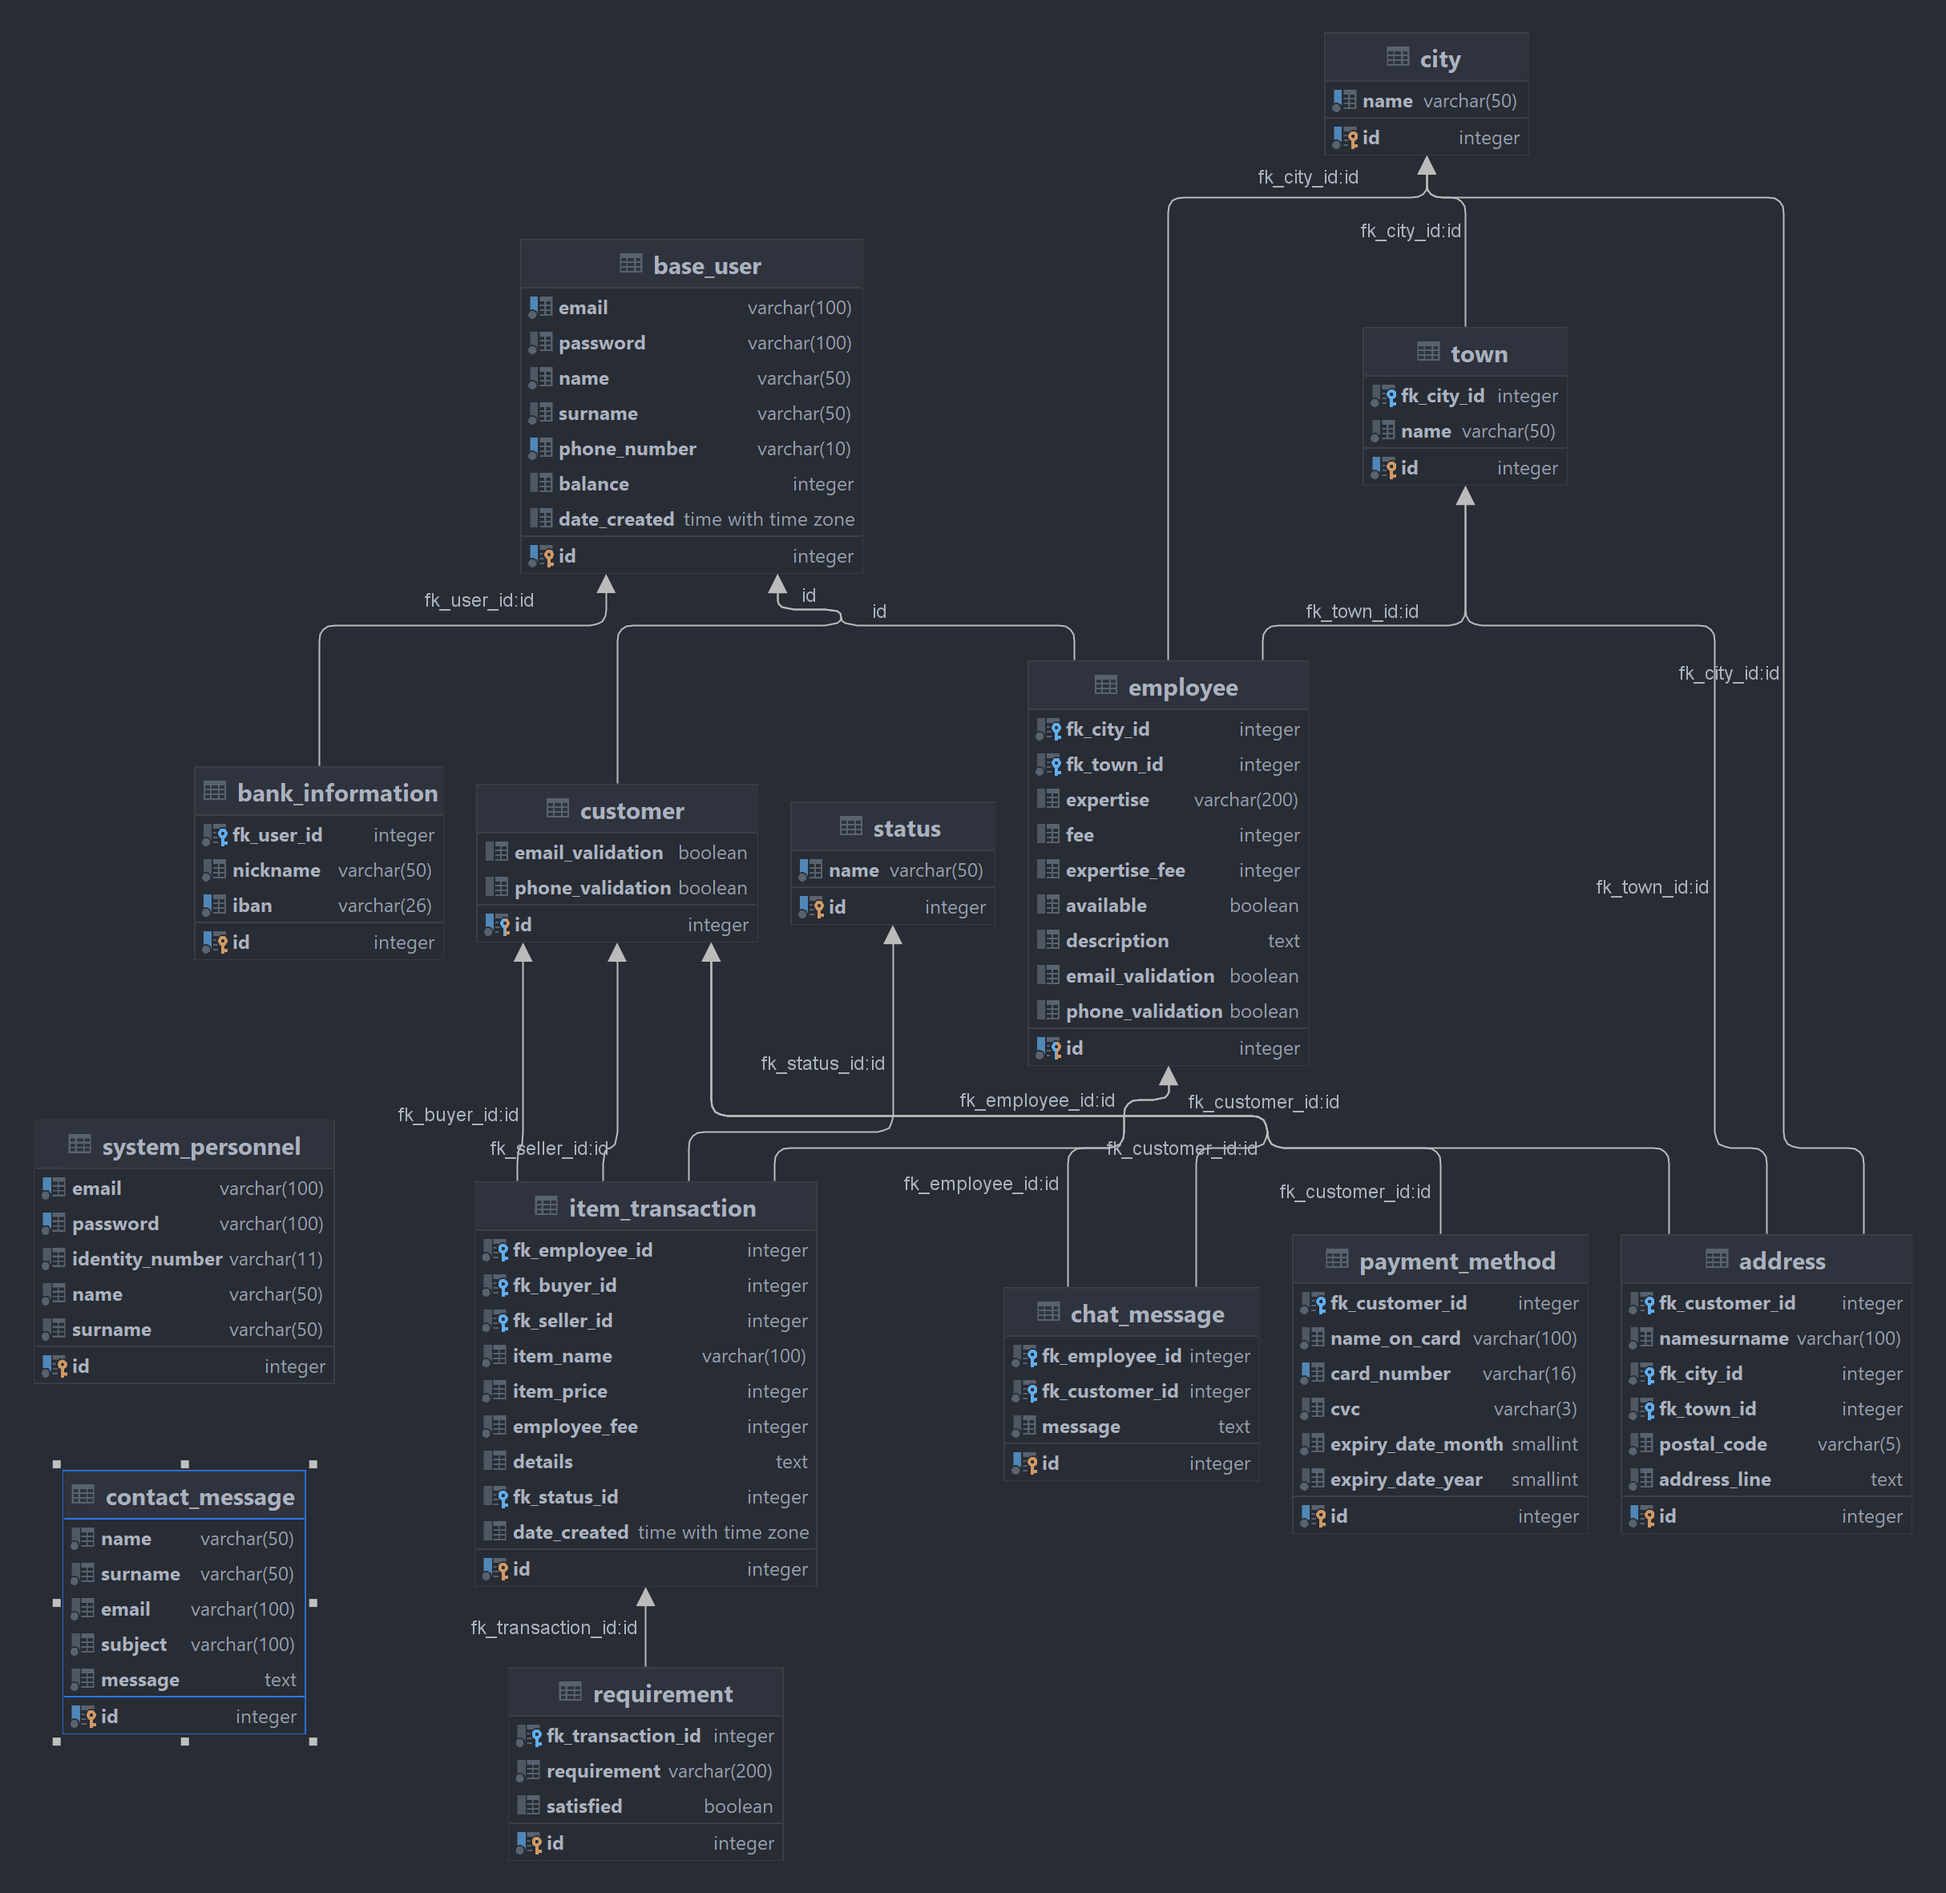
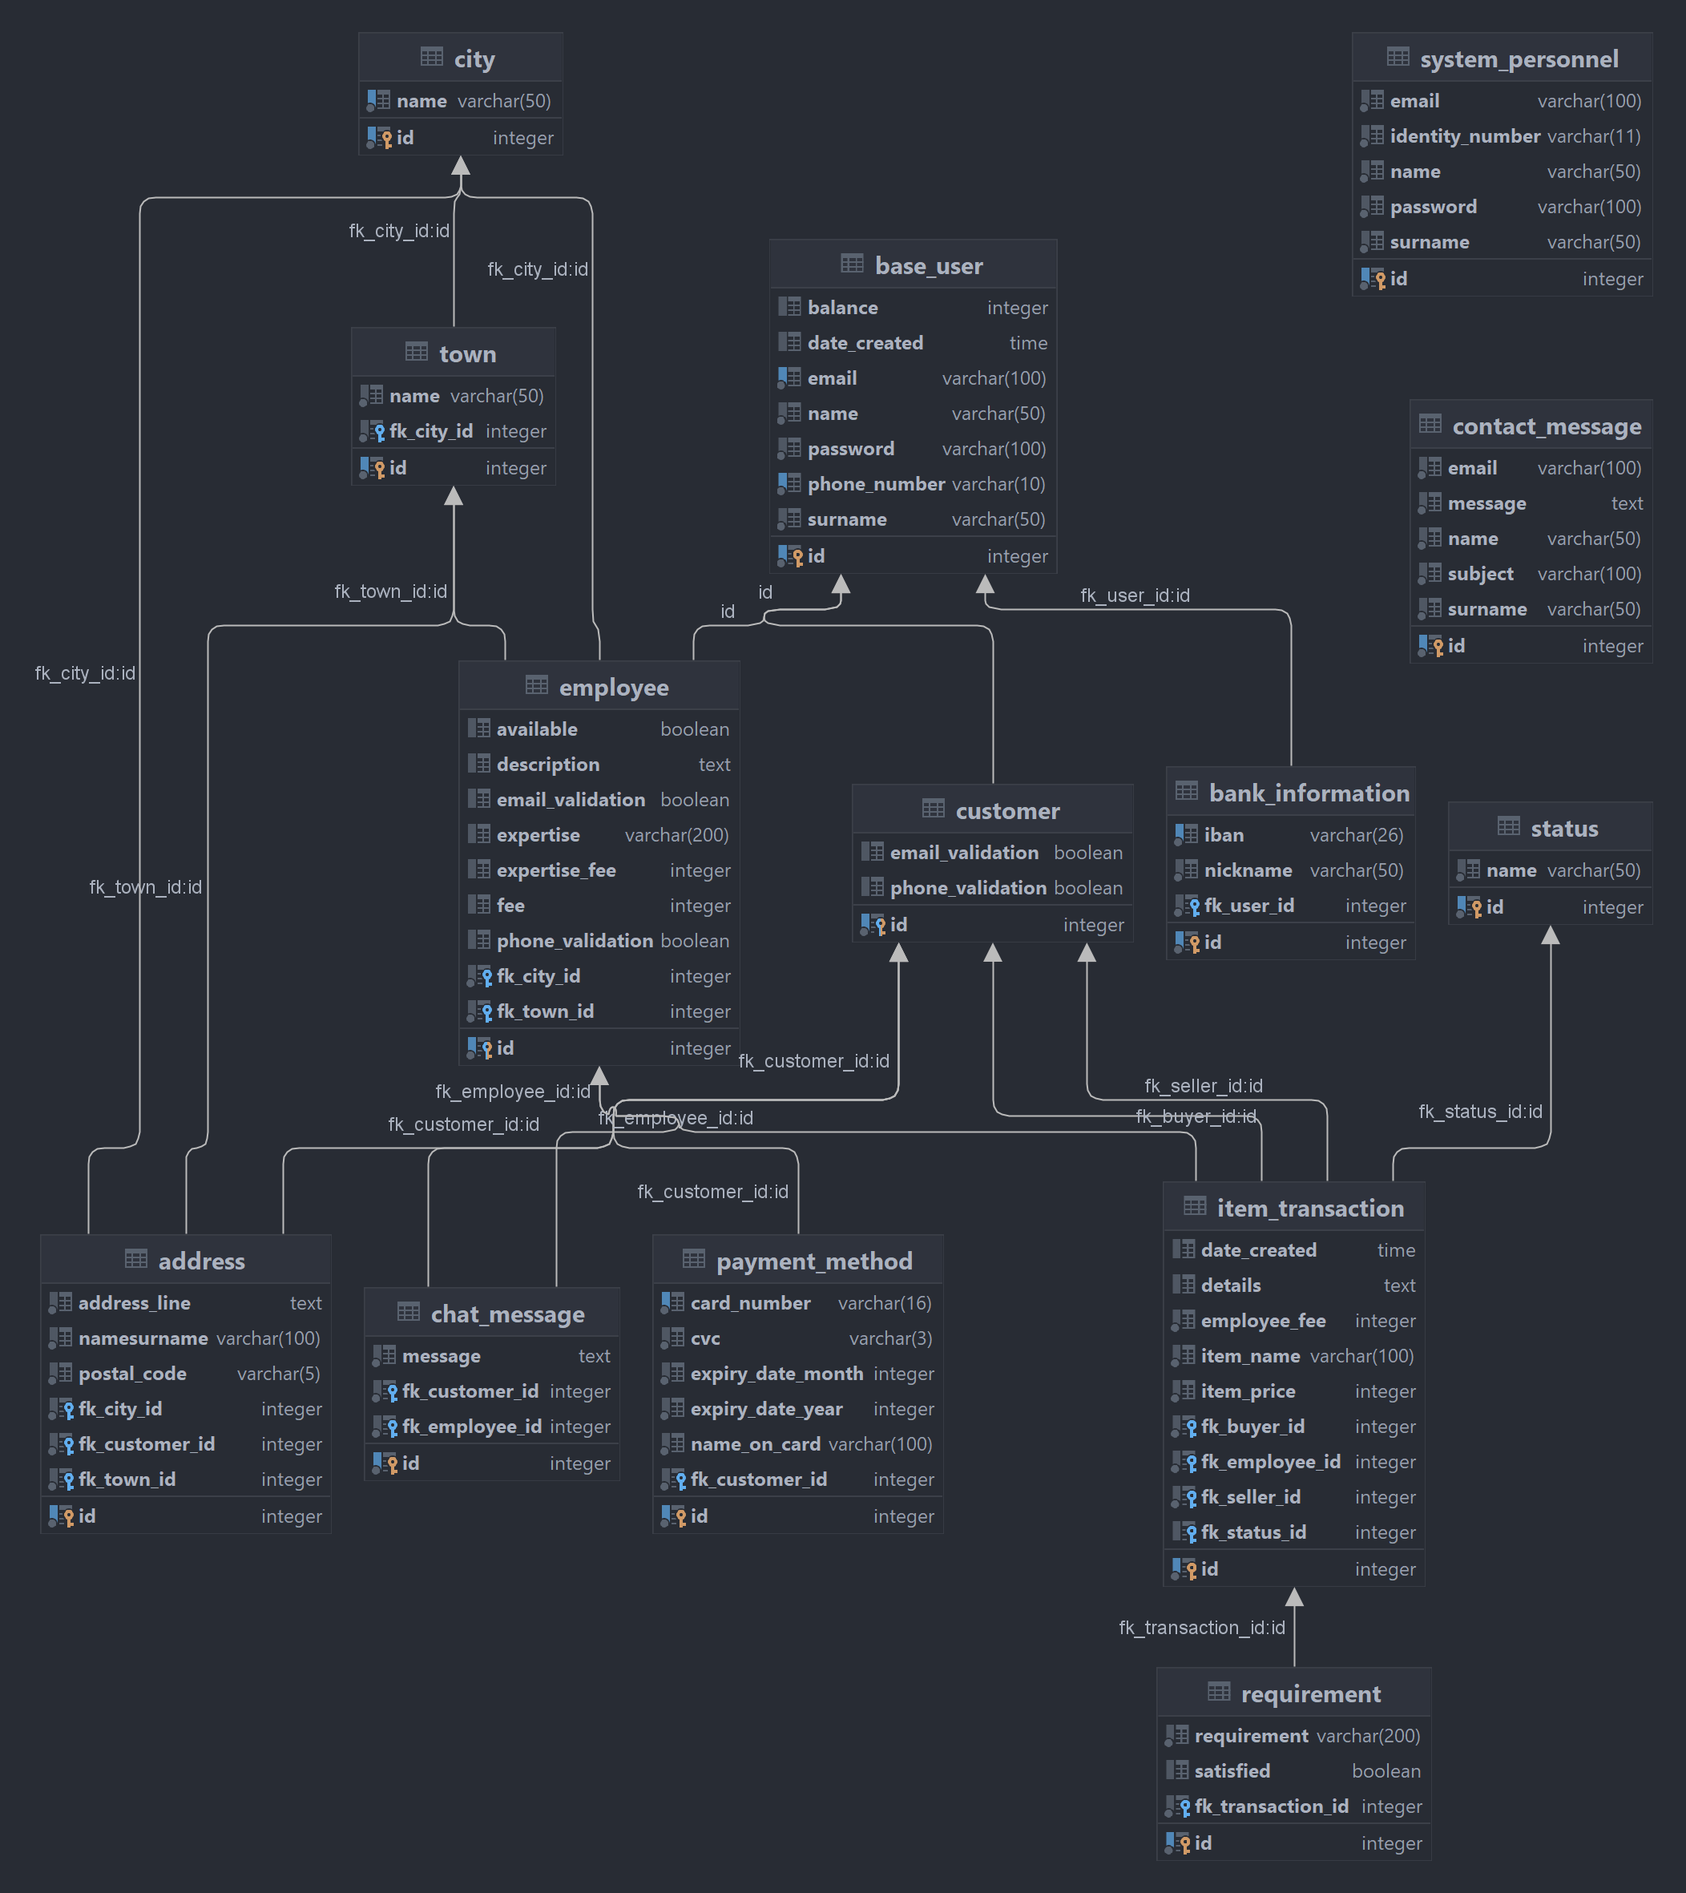
MAJOR DB UPDATE
Fixed major issue regarding id generation.
Added default values to nullable entities.

diff --git a/frontend/src/pages/CustomerSignup.jsx b/frontend/src/pages/CustomerSignup.jsx
@@ -163,9 +163,15 @@ export default function CustomerSignup() {
                                     placeholder="Repeat Password"
                                     type="password"
                                     name="rePassword"
+                                    value={formik.values.rePassword}
                                     onChange={formik.handleChange}
                                     onBlur={formik.handleBlur}
                                 />
+                                {formik.errors.rePassword && formik.touched.rePassword && (
+                                    <div className={"ui pointing red basic label"}>
+                                        {formik.errors.rePassword}
+                                    </div>
+                                    )}
                             </div>
                         </Grid.Column>
                     </Grid>

diff --git a/backend/src/main/java/ecrow/backend/entities/concretes/ItemTransaction.java b/backend/src/main/java/ecrow/backend/entities/concretes/ItemTransaction.java
@@ -2,10 +2,12 @@ package ecrow.backend.entities.concretes;
 
 import com.fasterxml.jackson.annotation.JsonIgnoreProperties;
 import lombok.*;
+import org.springframework.data.annotation.CreatedDate;
 
 import javax.persistence.*;
 import javax.validation.constraints.NotNull;
 import javax.validation.constraints.PositiveOrZero;
+import java.time.LocalDateTime;
 import java.time.OffsetTime;
 
 @Builder
@@ -19,7 +21,7 @@ import java.time.OffsetTime;
 public class ItemTransaction {
     @Id
     @GeneratedValue(strategy = GenerationType.SEQUENCE, generator = "item_transaction_id_generator")
-    @SequenceGenerator(name = "item_transaction_id_generator", sequenceName = "item_transaction_id_seq", allocationSize = 1)
+    @SequenceGenerator(name = "item_transaction_id_generator", sequenceName = "item_transaction_id_generator", allocationSize = 1)
     @Column(name = "id")
     private Integer id;
 
@@ -50,15 +52,16 @@ public class ItemTransaction {
     private Integer employeeFee;
 
     @Lob
-    @Column(name = "details")
+    @Column(name = "details", nullable = false)
     private String details;
 
     @ManyToOne(fetch = FetchType.LAZY)
     @JoinColumn(name = "fk_status_id")
     private Status fkStatus;
 
+    @CreatedDate
     @Column(name = "date_created")
-    private OffsetTime dateCreated;
+    private LocalDateTime dateCreated;
 
 
 }

diff --git a/backend/src/main/java/ecrow/backend/entities/concretes/BaseUser.java b/backend/src/main/java/ecrow/backend/entities/concretes/BaseUser.java
@@ -3,11 +3,13 @@ package ecrow.backend.entities.concretes;
 import com.fasterxml.jackson.annotation.JsonIgnoreProperties;
 import lombok.*;
 import lombok.experimental.SuperBuilder;
+import org.springframework.data.annotation.CreatedDate;
 
 import javax.persistence.*;
 import javax.validation.constraints.NotBlank;
 import javax.validation.constraints.NotNull;
 import javax.validation.constraints.Pattern;
+import java.time.LocalDateTime;
 import java.time.OffsetTime;
 
 @SuperBuilder
@@ -22,7 +24,7 @@ import java.time.OffsetTime;
 public class BaseUser {
     @Id
     @GeneratedValue(strategy = GenerationType.SEQUENCE, generator = "base_user_id_generator")
-    @SequenceGenerator(name = "base_user_id_generator", sequenceName = "base_user_id_seq", allocationSize = 1)
+    @SequenceGenerator(name = "base_user_id_generator", sequenceName = "base_user_id_generator", allocationSize = 1)
     @Column(name = "id")
     private Integer id;
 
@@ -53,8 +55,9 @@ public class BaseUser {
     private String phoneNumber;
 
     @Column(name = "balance")
-    private Integer balance;
+    private Integer balance = 0;
 
+    @CreatedDate
     @Column(name = "date_created")
-    private OffsetTime dateCreated;
+    private LocalDateTime dateCreated;
 }

diff --git a/backend/src/main/java/ecrow/backend/business/concretes/CustomerManager.java b/backend/src/main/java/ecrow/backend/business/concretes/CustomerManager.java
@@ -12,6 +12,7 @@ import ecrow.backend.entities.dtos.SignInDto;
 import org.springframework.beans.factory.annotation.Autowired;
 import org.springframework.stereotype.Service;
 
+import java.time.LocalDateTime;
 import java.util.List;
 
 @Service
@@ -89,14 +90,12 @@ public class CustomerManager implements CustomerService {
                 .name(customerAddDto.getName())
                 .surname(customerAddDto.getSurname())
                 .phoneNumber(customerAddDto.getPhoneNumber())
+                .balance(0)
+                .dateCreated(LocalDateTime.now())
+                .emailValidation(false)
+                .phoneValidation(false)
                 .build();
-//        Customer customer = new Customer();
-//        customer.setEmail(customerAddDto.getEmail());
-//        customer.setPassword(customerAddDto.getPassword());
-//        customer.setName(customerAddDto.getName());
-//        customer.setSurname(customerAddDto.getSurname());
-//        customer.setPhoneNumber(customerAddDto.getPhoneNumber());
-//        System.out.println(customer.getId());
+
         customerDao.save(customer);
         return new SuccessResult("Customer Saved");
     }

diff --git a/backend/src/main/java/ecrow/backend/entities/concretes/ContactMessage.java b/backend/src/main/java/ecrow/backend/entities/concretes/ContactMessage.java
@@ -2,11 +2,13 @@ package ecrow.backend.entities.concretes;
 
 import com.fasterxml.jackson.annotation.JsonIgnoreProperties;
 import lombok.*;
+import org.springframework.data.annotation.CreatedDate;
 
 import javax.persistence.*;
 import javax.validation.constraints.NotBlank;
 import javax.validation.constraints.NotNull;
 import javax.validation.constraints.Pattern;
+import java.time.LocalDateTime;
 
 @Builder
 @AllArgsConstructor
@@ -19,7 +21,7 @@ import javax.validation.constraints.Pattern;
 public class ContactMessage {
     @Id
     @GeneratedValue(strategy = GenerationType.SEQUENCE, generator = "contact_message_id_generator")
-    @SequenceGenerator(name = "contact_message_id_generator", sequenceName = "contact_message_id_seq", allocationSize = 1)
+    @SequenceGenerator(name = "contact_message_id_generator", sequenceName = "contact_message_id_generator", allocationSize = 1)
     @Column(name = "id")
     private Integer id;
 
@@ -50,4 +52,7 @@ public class ContactMessage {
     @Column(name = "message", nullable = false)
     private String message;
 
+    @CreatedDate
+    @Column(name = "date_created")
+    private LocalDateTime dateCreated;
 }

diff --git a/backend/src/main/java/ecrow/backend/entities/concretes/ChatMessage.java b/backend/src/main/java/ecrow/backend/entities/concretes/ChatMessage.java
@@ -1,10 +1,12 @@
 package ecrow.backend.entities.concretes;
 
 import lombok.*;
+import org.springframework.data.annotation.CreatedDate;
 
 import javax.persistence.*;
 import javax.validation.constraints.NotBlank;
 import javax.validation.constraints.NotNull;
+import java.time.LocalDateTime;
 
 @Builder
 @AllArgsConstructor
@@ -16,7 +18,7 @@ import javax.validation.constraints.NotNull;
 public class ChatMessage {
     @Id
     @GeneratedValue(strategy = GenerationType.SEQUENCE, generator = "chat_message_id_generator")
-    @SequenceGenerator(name = "chat_message_id_generator", sequenceName = "chat_message_id_seq", allocationSize = 1)
+    @SequenceGenerator(name = "chat_message_id_generator", sequenceName = "chat_message_id_generator", allocationSize = 1)
     @Column(name = "id")
     private Integer id;
 
@@ -33,5 +35,9 @@ public class ChatMessage {
     @Lob
     @Column(name = "message", nullable = false)
     private String message;
+
+    @CreatedDate
+    @Column(name = "date_created")
+    private LocalDateTime dateCreated;
 
 }

diff --git a/backend/src/main/java/ecrow/backend/business/concretes/EmployeeManager.java b/backend/src/main/java/ecrow/backend/business/concretes/EmployeeManager.java
@@ -11,6 +11,7 @@ import ecrow.backend.entities.dtos.*;
 import org.springframework.beans.factory.annotation.Autowired;
 import org.springframework.stereotype.Service;
 
+import java.time.LocalDateTime;
 import java.util.List;
 
 @Service
@@ -115,6 +116,15 @@ public class EmployeeManager implements EmployeeService {
                 .name(employeeAddDto.getName())
                 .surname(employeeAddDto.getSurname())
                 .phoneNumber(employeeAddDto.getPhoneNumber())
+                .balance(0)
+                .dateCreated(LocalDateTime.now())
+                .available(true)
+                .description("")
+                .emailValidation(false)
+                .phoneValidation(false)
+                .expertise("")
+                .expertiseFee(0)
+                .fee(0)
                 .build();
         employeeDao.save(employee);
         return new SuccessResult("Employee Saved");

diff --git a/backend/src/main/java/ecrow/backend/business/concretes/ItemTransactionManager.java b/backend/src/main/java/ecrow/backend/business/concretes/ItemTransactionManager.java
@@ -12,6 +12,7 @@ import ecrow.backend.entities.dtos.ItemTransactionStatusUpdateDto;
 import org.springframework.beans.factory.annotation.Autowired;
 import org.springframework.stereotype.Service;
 
+import java.time.LocalDateTime;
 import java.util.List;
 
 @Service
@@ -98,6 +99,9 @@ public class ItemTransactionManager implements ItemTransactionService {
                 .itemName(itemTransactionAddDto.getItemName())
                 .itemPrice(itemTransactionAddDto.getItemPrice())
                 .employeeFee(itemTransactionAddDto.getEmployeeFee())
+                .details(itemTransactionAddDto.getDetails())
+                .dateCreated(LocalDateTime.now())
+                .fkStatus(statusDao.findById(1).get())
                 .build();
         itemTransactionDao.save(itemTransaction);
         return new SuccessResult("Transaction Added");

diff --git a/backend/src/main/java/ecrow/backend/business/concretes/ChatMessageManager.java b/backend/src/main/java/ecrow/backend/business/concretes/ChatMessageManager.java
@@ -10,6 +10,7 @@ import ecrow.backend.entities.dtos.ChatMessageAddDto;
 import org.springframework.beans.factory.annotation.Autowired;
 import org.springframework.stereotype.Service;
 
+import java.time.LocalDateTime;
 import java.util.List;
 
 @Service
@@ -83,6 +84,7 @@ public class ChatMessageManager implements ChatMessageService {
                 .fkCustomer(customerDao.findById(chatMessageAddDto.getFkCustomerId()).get())
                 .fkEmployee(employeeDao.findById(chatMessageAddDto.getFkEmployeeId()).get())
                 .message(chatMessageAddDto.getMessage())
+                .dateCreated(LocalDateTime.now())
                 .build();
         chatMessageDao.save(chatMessage);
         return new SuccessResult("Chat Message Saved");

diff --git a/backend/src/main/java/ecrow/backend/business/concretes/ContactMessageManager.java b/backend/src/main/java/ecrow/backend/business/concretes/ContactMessageManager.java
@@ -7,6 +7,7 @@ import ecrow.backend.entities.concretes.ContactMessage;
 import ecrow.backend.entities.dtos.ContactMessageAddDto;
 import org.springframework.stereotype.Service;
 
+import java.time.LocalDateTime;
 import java.util.List;
 
 @Service
@@ -54,6 +55,7 @@ public class ContactMessageManager implements ContactMessageService {
                 .email(contactMessageAddDto.getEmail())
                 .subject(contactMessageAddDto.getSubject())
                 .message(contactMessageAddDto.getMessage())
+                .dateCreated(LocalDateTime.now())
                 .build();
         contactMessageDao.save(contactMessage);
         return new SuccessResult("Contact Message Saved");

diff --git a/backend/src/main/java/ecrow/backend/entities/concretes/BankInformation.java b/backend/src/main/java/ecrow/backend/entities/concretes/BankInformation.java
@@ -19,7 +19,7 @@ import javax.validation.constraints.Pattern;
 public class BankInformation {
     @Id
     @GeneratedValue(strategy = GenerationType.SEQUENCE, generator = "bank_information_id_generator")
-    @SequenceGenerator(name = "bank_information_id_generator", sequenceName = "bank_information_id_seq", allocationSize = 1)
+    @SequenceGenerator(name = "bank_information_id_generator", sequenceName = "bank_information_id_generator", allocationSize = 1)
     @Column(name = "id")
     private Integer id;
 

diff --git a/backend/src/main/java/ecrow/backend/entities/concretes/SystemPersonnel.java b/backend/src/main/java/ecrow/backend/entities/concretes/SystemPersonnel.java
@@ -19,7 +19,7 @@ import javax.validation.constraints.Pattern;
 public class SystemPersonnel {
     @Id
     @GeneratedValue(strategy = GenerationType.SEQUENCE, generator = "system_personnel_id_generator")
-    @SequenceGenerator(name = "system_personnel_id_generator", sequenceName = "system_personnel_id_seq", allocationSize = 1)
+    @SequenceGenerator(name = "system_personnel_id_generator", sequenceName = "system_personnel_id_generator", allocationSize = 1)
     @Column(name = "id")
     private Integer id;
 
